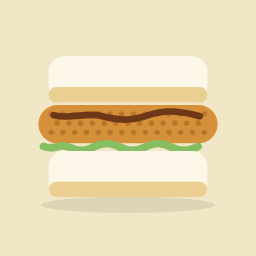
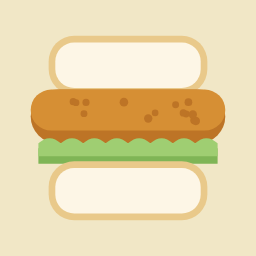
Sando: ícone refinado (fatias fofas, empanado em dois tons, repolho em duas camadas)
Claude-Session: https://claude.ai/code/session_01Qz1ytuQNeFNLmq2rNKZoKy

diff --git a/sando/index.html b/sando/index.html
@@ -2,8 +2,8 @@
 <html lang="pt-BR">
 <head>
 <meta charset="UTF-8">
-<script src="../comum/tema.js?v=96"></script>
-<script src="../comum/cabecalho.js?v=96"></script>
+<script src="../comum/tema.js?v=97"></script>
+<script src="../comum/cabecalho.js?v=97"></script>
 <meta name="viewport" content="width=device-width, initial-scale=1, maximum-scale=1, user-scalable=no, viewport-fit=cover">
 <meta name="apple-mobile-web-app-capable" content="yes">
 <meta name="apple-mobile-web-app-status-bar-style" content="black-translucent">
@@ -11,8 +11,8 @@
 <meta name="mobile-web-app-capable" content="yes">
 <meta name="theme-color" content="#f6f3ea" media="(prefers-color-scheme: light)">
 <meta name="theme-color" content="#17150f" media="(prefers-color-scheme: dark)">
-<link rel="apple-touch-icon" href="icon-claro.png?v=12">
-<link rel="icon" type="image/png" href="icon-claro.png?v=12">
+<link rel="apple-touch-icon" href="icon-claro.png?v=13">
+<link rel="icon" type="image/png" href="icon-claro.png?v=13">
 <link href="https://fonts.googleapis.com/css2?family=Noto+Sans:wdth,wght@62.5..100,400..900&display=swap" rel="stylesheet">
 <title>SANDO — Ache o recheio escondido</title>
 <style>
@@ -445,7 +445,7 @@
   .mode-switch-track{border:0;}
 </style>
 
-<link rel="stylesheet" href="../comum/cabecalho.css?v=96">
+<link rel="stylesheet" href="../comum/cabecalho.css?v=97">
 <style>
   /* cores do cabeçalho comum, a partir das cores deste jogo */
   :root { --fim-btn-bg: var(--accent); --fim-btn-ink: #fff; --fim-btn-border: 0; --gh-fim-ink: #fff; --gh-fim-border: 0; --gh-fim-border-lose: 0; --mpad: 18px; --gh-ink: var(--text); --gh-muted: var(--text-dim); --gh-surface: var(--card); --gh-track: var(--tile-ghost); --gh-accent: var(--accent); --gh-line: color-mix(in srgb, var(--text) 22%, transparent); }
@@ -481,7 +481,7 @@
 
   <header class="gh">
     <a class="gh-back back-home" href="../" aria-label="Voltar aos Jogos do Dia" title="Jogos do Dia"><svg viewBox="0 0 24 24" width="22" height="22" fill="none" stroke="currentColor" stroke-width="2.6" stroke-linecap="round" stroke-linejoin="round" aria-hidden="true"><path d="M15 5l-7 7 7 7"/></svg></a>
-    <a class="gh-brand" href="./" aria-label="Sando — recarregar"><img src="icon-claro.png?v=12" data-escuro="icon-escuro.png?v=12" alt=""><b>SANDO</b></a>
+    <a class="gh-brand" href="./" aria-label="Sando — recarregar"><img src="icon-claro.png?v=13" data-escuro="icon-escuro.png?v=13" alt=""><b>SANDO</b></a>
     <button class="gh-btn" id="help-btn" title="Como jogar" aria-label="Como jogar"><svg viewBox="0 0 24 24" aria-hidden="true" fill="none" stroke="currentColor" stroke-width="2.4" stroke-linecap="round" stroke-linejoin="round"><circle cx="12" cy="12" r="9"/><path d="M9.3 9.3a2.8 2.8 0 0 1 5.4 1c0 1.9-2.7 2.5-2.7 4"/><path d="M12 17.6h.01"/></svg></button>
     <!-- configurações e estatísticas ficam no painel Jogos do Dia; o botão original segue oculto -->
       <button class="icon-btn" id="settings-btn" hidden aria-hidden="true" tabindex="-1">
@@ -592,7 +592,7 @@
 <div class="overlay" id="end-overlay">
   <div class="modal fim">
     <div class="fim-top"><button class="fim-close" data-close="end-overlay" aria-label="Fechar"><svg viewBox="0 0 24 24" aria-hidden="true"><path d="M6 6l12 12M18 6L6 18"/></svg></button></div>
-    <div class="fim-art"><img src="icon-claro.png?v=12" data-escuro="icon-escuro.png?v=12" alt="Sando" style="height:96px;border-radius:24px;box-shadow:0 4px 14px rgba(60,40,20,.15)"></div>
+    <div class="fim-art"><img src="icon-claro.png?v=13" data-escuro="icon-escuro.png?v=13" alt="Sando" style="height:96px;border-radius:24px;box-shadow:0 4px 14px rgba(60,40,20,.15)"></div>
     <h2 class="fim-title" id="end-text">Sando completo!</h2>
     <div class="fim-result"><div class="tile-row end-slice win" id="end-word"></div><button class="fim-share" id="end-share" aria-label="Compartilhar resultado" title="Compartilhar"><svg viewBox="0 0 24 24" aria-hidden="true"><g class="sh"><path d="M12 3.5v11"/><path d="M8 7.5l4-4 4 4"/><path d="M7.5 11H6.5A1.5 1.5 0 0 0 5 12.5v6A1.5 1.5 0 0 0 6.5 20h11a1.5 1.5 0 0 0 1.5-1.5v-6A1.5 1.5 0 0 0 17.5 11h-1"/></g><path class="ok" d="M5.5 12.5l4 4 9-9"/></svg></button></div>
     <p class="fim-sub" id="end-sub"></p>
@@ -1035,7 +1035,7 @@
     document.getElementById('keyboard').style.display = acabou ? 'none' : '';
     document.querySelector('.letters-panel').style.display = acabou ? 'none' : '';
     ghFim(document.getElementById('fim'), !acabou ? null : {
-      img: 'icon-claro.png?v=12', imgEscuro: 'icon-escuro.png?v=12', nome: 'Sando',
+      img: 'icon-claro.png?v=13', imgEscuro: 'icon-escuro.png?v=13', nome: 'Sando',
       titulo: state.won ? 'Sando completo' : 'Não foi dessa vez',
       sub: state.won ? state.guesses.length + '/' + MAX_GUESSES + ' tentativas' : 'o recheio era ' + state.secret.toUpperCase(),
       perdeu: !state.won, diario: daily,
@@ -1250,7 +1250,7 @@
     fn => { document.getElementById("practice-toggle").addEventListener("change", () => setTimeout(fn)); window.addEventListener("sanduba-livre", fn); },
     window.sandubaLivre);
 </script>
-<script src="../comum/catalogo.js?v=96"></script>
-<script src="../comum/proximo.js?v=96" data-jogo="sanduba"></script>
+<script src="../comum/catalogo.js?v=97"></script>
+<script src="../comum/proximo.js?v=97" data-jogo="sanduba"></script>
 </body>
 </html>

diff --git a/5pila/index.html b/5pila/index.html
@@ -11,8 +11,8 @@
 <meta name="apple-mobile-web-app-title" content="5PILA">
 <link rel="icon" type="image/png" href="icon-claro.png?v=11">
 <link rel="apple-touch-icon" href="icon-claro.png?v=11">
-<script src="../comum/tema.js?v=96"></script>
-<script src="../comum/cabecalho.js?v=96"></script>
+<script src="../comum/tema.js?v=97"></script>
+<script src="../comum/cabecalho.js?v=97"></script>
 <link rel="preconnect" href="https://fonts.googleapis.com">
 <link rel="preconnect" href="https://fonts.gstatic.com" crossorigin>
 <link href="https://fonts.googleapis.com/css2?family=Noto+Sans:wdth,wght@62.5..100,400..900&display=swap" rel="stylesheet">
@@ -353,7 +353,7 @@ header{
 #btn-stats[hidden], #btn-settings[hidden]{display:none !important;}
 </style>
 
-<link rel="stylesheet" href="../comum/cabecalho.css?v=96">
+<link rel="stylesheet" href="../comum/cabecalho.css?v=97">
 <style>
   /* cores do cabeçalho comum, a partir das cores deste jogo */
   :root { --fim-btn-bg: var(--accent); --fim-btn-ink: var(--accent-ink); --gh-fim-ink: var(--accent-ink); --mpad: 22px; --gh-ink: var(--ink); --gh-muted: var(--ink-dim); --gh-surface: var(--panel); --gh-track: var(--panel-2); --gh-accent: var(--accent); --gh-line: var(--line); }
@@ -1329,7 +1329,7 @@ header{
     fn => { new MutationObserver(fn).observe(document.getElementById("mode-switch"), { attributes: true, attributeFilter: ["class"] }); window.addEventListener("quinhentos-livre", fn); },
     window.quinhentosLivre);
 </script>
-<script src="../comum/catalogo.js?v=96"></script>
-<script src="../comum/proximo.js?v=96" data-jogo="quinhentos"></script>
+<script src="../comum/catalogo.js?v=97"></script>
+<script src="../comum/proximo.js?v=97" data-jogo="quinhentos"></script>
 </body>
 </html>

diff --git a/novelo/index.html b/novelo/index.html
@@ -10,8 +10,8 @@
 <meta name="apple-mobile-web-app-title" content="Novelo">
 <title>NOVELO — um fio por todas as casas</title>
 <link rel="icon" type="image/png" href="icon.png">
-<script src="../comum/tema.js?v=96"></script>
-<script src="../comum/cabecalho.js?v=96"></script>
+<script src="../comum/tema.js?v=97"></script>
+<script src="../comum/cabecalho.js?v=97"></script>
 <link rel="apple-touch-icon" href="icon.png">
 <link rel="preconnect" href="https://fonts.googleapis.com">
 <link rel="preconnect" href="https://fonts.gstatic.com" crossorigin>
@@ -217,7 +217,7 @@
     background: var(--accent); color: var(--on-accent); font: inherit; font-weight: 700; font-size: .95rem;
   }
 </style>
-<link rel="stylesheet" href="../comum/cabecalho.css?v=96">
+<link rel="stylesheet" href="../comum/cabecalho.css?v=97">
 <style>
   :root { --fim-btn-bg: var(--accent); --fim-btn-ink: var(--on-accent); --mpad: 22px; --gh-ink: var(--ink); --gh-muted: var(--muted); --gh-surface: var(--surface); --gh-track: var(--surface-2); --gh-accent: var(--accent); --gh-line: var(--line); }
 </style>
@@ -773,7 +773,7 @@
   demo("demoB", [0, 3, 6, 7, 4, 1, 2, 5, 8], [[0, 1], [8, 2]], "M115 27L115 203");
 })();
 </script>
-<script src="../comum/catalogo.js?v=96"></script>
-<script src="../comum/proximo.js?v=96" data-jogo="novelo"></script>
+<script src="../comum/catalogo.js?v=97"></script>
+<script src="../comum/proximo.js?v=97" data-jogo="novelo"></script>
 </body>
 </html>

diff --git a/comum/catalogo.js b/comum/catalogo.js
@@ -22,7 +22,7 @@ const BASE_GAMES = [
   { id: "termo",      name: "Termo",      emoji: "🟩", desc: "Wordle em português",           url: "https://term.ooo/" },
   { id: "spotle",     name: "Spotle",     emoji: "🎵", desc: "Adivinhe o artista",            url: "https://spotle.io/" },
   { id: "betweenle",  name: "Betweenle",  emoji: "↕", desc: "A palavra está entre…",         url: "https://betweenle.com/" },
-  { id: "sanduba",    name: "Sando",      emoji: "🥪", desc: "Betweenle em português",        url: "sando/", icon: "sando/icon-claro.png?v=12", iconDark: "sando/icon-escuro.png?v=12", iconFull: true, cor: ["#f1e7c6", "#3b3316", "#3c3520", "#f4f2eb"] },
+  { id: "sanduba",    name: "Sando",      emoji: "🥪", desc: "Betweenle em português",        url: "sando/", icon: "sando/icon-claro.png?v=13", iconDark: "sando/icon-escuro.png?v=13", iconFull: true, cor: ["#f1e7c6", "#3b3316", "#3c3520", "#f4f2eb"] },
   { id: "word500",    name: "Word500",    emoji: "🔢", desc: "Dedução por contagem",          url: "https://word500.com/" },
   { id: "quinhentos", name: "5PILA",      emoji: "💵", desc: "Word500 em português",          url: "5pila/", icon: "5pila/icon-claro.png?v=11", iconDark: "5pila/icon-escuro.png?v=11", iconFull: true, cor: ["#c6f1da", "#163b28", "#203c2d", "#ebf4ef"] },
   { id: "foximax",    name: "Foximax",    emoji: "🦊", desc: "foximax.com",                   url: "https://foximax.com/" },

diff --git a/eclipse/index.html b/eclipse/index.html
@@ -10,8 +10,8 @@
 <meta name="apple-mobile-web-app-title" content="Eclipse">
 <title>ECLIPSE — um sol e uma lua em cada linha</title>
 <link rel="icon" type="image/png" href="icon.png">
-<script src="../comum/tema.js?v=96"></script>
-<script src="../comum/cabecalho.js?v=96"></script>
+<script src="../comum/tema.js?v=97"></script>
+<script src="../comum/cabecalho.js?v=97"></script>
 <link rel="apple-touch-icon" href="icon.png">
 <link rel="preconnect" href="https://fonts.googleapis.com">
 <link rel="preconnect" href="https://fonts.gstatic.com" crossorigin>
@@ -276,7 +276,7 @@
   }
 
 </style>
-<link rel="stylesheet" href="../comum/cabecalho.css?v=96">
+<link rel="stylesheet" href="../comum/cabecalho.css?v=97">
 <style>
   /* cores do cabeçalho comum, a partir das cores deste jogo */
   :root { --fim-btn-bg: var(--accent); --fim-btn-ink: var(--on-accent); --mpad: 22px; --gh-ink: var(--ink); --gh-muted: var(--muted); --gh-surface: var(--surface); --gh-track: var(--surface-2); --gh-accent: var(--accent); --gh-line: var(--line); }
@@ -880,7 +880,7 @@
   $("helpBtn").addEventListener("click", () => openModal("helpOverlay"));
 })();
 </script>
-<script src="../comum/catalogo.js?v=96"></script>
-<script src="../comum/proximo.js?v=96" data-jogo="eclipse"></script>
+<script src="../comum/catalogo.js?v=97"></script>
+<script src="../comum/proximo.js?v=97" data-jogo="eclipse"></script>
 </body>
 </html>

diff --git a/cortado/index.html b/cortado/index.html
@@ -10,8 +10,8 @@
 <meta name="apple-mobile-web-app-title" content="Cortado">
 <title>CORTADO — café e leite em equilíbrio</title>
 <link rel="icon" type="image/png" href="icon.png">
-<script src="../comum/tema.js?v=96"></script>
-<script src="../comum/cabecalho.js?v=96"></script>
+<script src="../comum/tema.js?v=97"></script>
+<script src="../comum/cabecalho.js?v=97"></script>
 <link rel="apple-touch-icon" href="icon.png">
 <link rel="preconnect" href="https://fonts.googleapis.com">
 <link rel="preconnect" href="https://fonts.gstatic.com" crossorigin>
@@ -203,7 +203,7 @@
     background: var(--accent); color: var(--on-accent); font: inherit; font-weight: 700; font-size: .95rem;
   }
 </style>
-<link rel="stylesheet" href="../comum/cabecalho.css?v=96">
+<link rel="stylesheet" href="../comum/cabecalho.css?v=97">
 <style>
   :root { --fim-btn-bg: var(--accent); --fim-btn-ink: var(--on-accent); --mpad: 22px; --gh-ink: var(--ink); --gh-muted: var(--muted); --gh-surface: var(--surface); --gh-track: var(--surface-2); --gh-accent: var(--accent); --gh-line: var(--line); }
 </style>
@@ -658,7 +658,7 @@
   demo("demoB", true);
 })();
 </script>
-<script src="../comum/catalogo.js?v=96"></script>
-<script src="../comum/proximo.js?v=96" data-jogo="pingado"></script>
+<script src="../comum/catalogo.js?v=97"></script>
+<script src="../comum/proximo.js?v=97" data-jogo="pingado"></script>
 </body>
 </html>

diff --git a/azulejo/index.html b/azulejo/index.html
@@ -10,8 +10,8 @@
 <meta name="apple-mobile-web-app-title" content="Azulejo">
 <title>AZULEJO — uma parede de painéis</title>
 <link rel="icon" type="image/png" href="icon.png">
-<script src="../comum/tema.js?v=96"></script>
-<script src="../comum/cabecalho.js?v=96"></script>
+<script src="../comum/tema.js?v=97"></script>
+<script src="../comum/cabecalho.js?v=97"></script>
 <link rel="apple-touch-icon" href="icon.png">
 <link rel="preconnect" href="https://fonts.googleapis.com">
 <link rel="preconnect" href="https://fonts.gstatic.com" crossorigin>
@@ -232,7 +232,7 @@
     background: var(--accent); color: var(--on-accent); font: inherit; font-weight: 700; font-size: .95rem;
   }
 </style>
-<link rel="stylesheet" href="../comum/cabecalho.css?v=96">
+<link rel="stylesheet" href="../comum/cabecalho.css?v=97">
 <style>
   :root { --fim-btn-bg: var(--accent); --fim-btn-ink: var(--on-accent); --mpad: 22px; --gh-ink: var(--ink); --gh-muted: var(--muted); --gh-surface: var(--surface); --gh-track: var(--surface-2); --gh-accent: var(--accent); --gh-line: var(--line); }
 </style>
@@ -743,7 +743,7 @@
   demo("demoB", true);
 })();
 </script>
-<script src="../comum/catalogo.js?v=96"></script>
-<script src="../comum/proximo.js?v=96" data-jogo="retalhos"></script>
+<script src="../comum/catalogo.js?v=97"></script>
+<script src="../comum/proximo.js?v=97" data-jogo="retalhos"></script>
 </body>
 </html>

diff --git a/index.html b/index.html
@@ -12,8 +12,8 @@
 <link rel="icon" id="favicon" type="image/png" href="icon-192.png?v=6">
 <link rel="apple-touch-icon" href="apple-touch-icon.png?v=6">
 <link rel="manifest" href="manifest.json">
-<script src="comum/tema.js?v=96"></script>
-<script src="comum/catalogo.js?v=96"></script>
+<script src="comum/tema.js?v=97"></script>
+<script src="comum/catalogo.js?v=97"></script>
 <link rel="preconnect" href="https://fonts.googleapis.com">
 <link rel="preconnect" href="https://fonts.gstatic.com" crossorigin>
 <link href="https://fonts.googleapis.com/css2?family=Noto+Sans:wdth,wght@62.5..100,400..900&display=swap" rel="stylesheet">

diff --git a/sw.js b/sw.js
@@ -1,6 +1,6 @@
 // Service worker do Jogos do Dia.
 // Deixa o painel instalável e funcionando offline (sempre tenta a versão mais nova primeiro).
-const CACHE = "jogos-do-dia-v96";
+const CACHE = "jogos-do-dia-v97";
 const FILES = ["./", "./index.html", "./manifest.json", "./icon-192.png", "./icon-512.png", "./apple-touch-icon.png"];
 
 self.addEventListener("install", e => {
